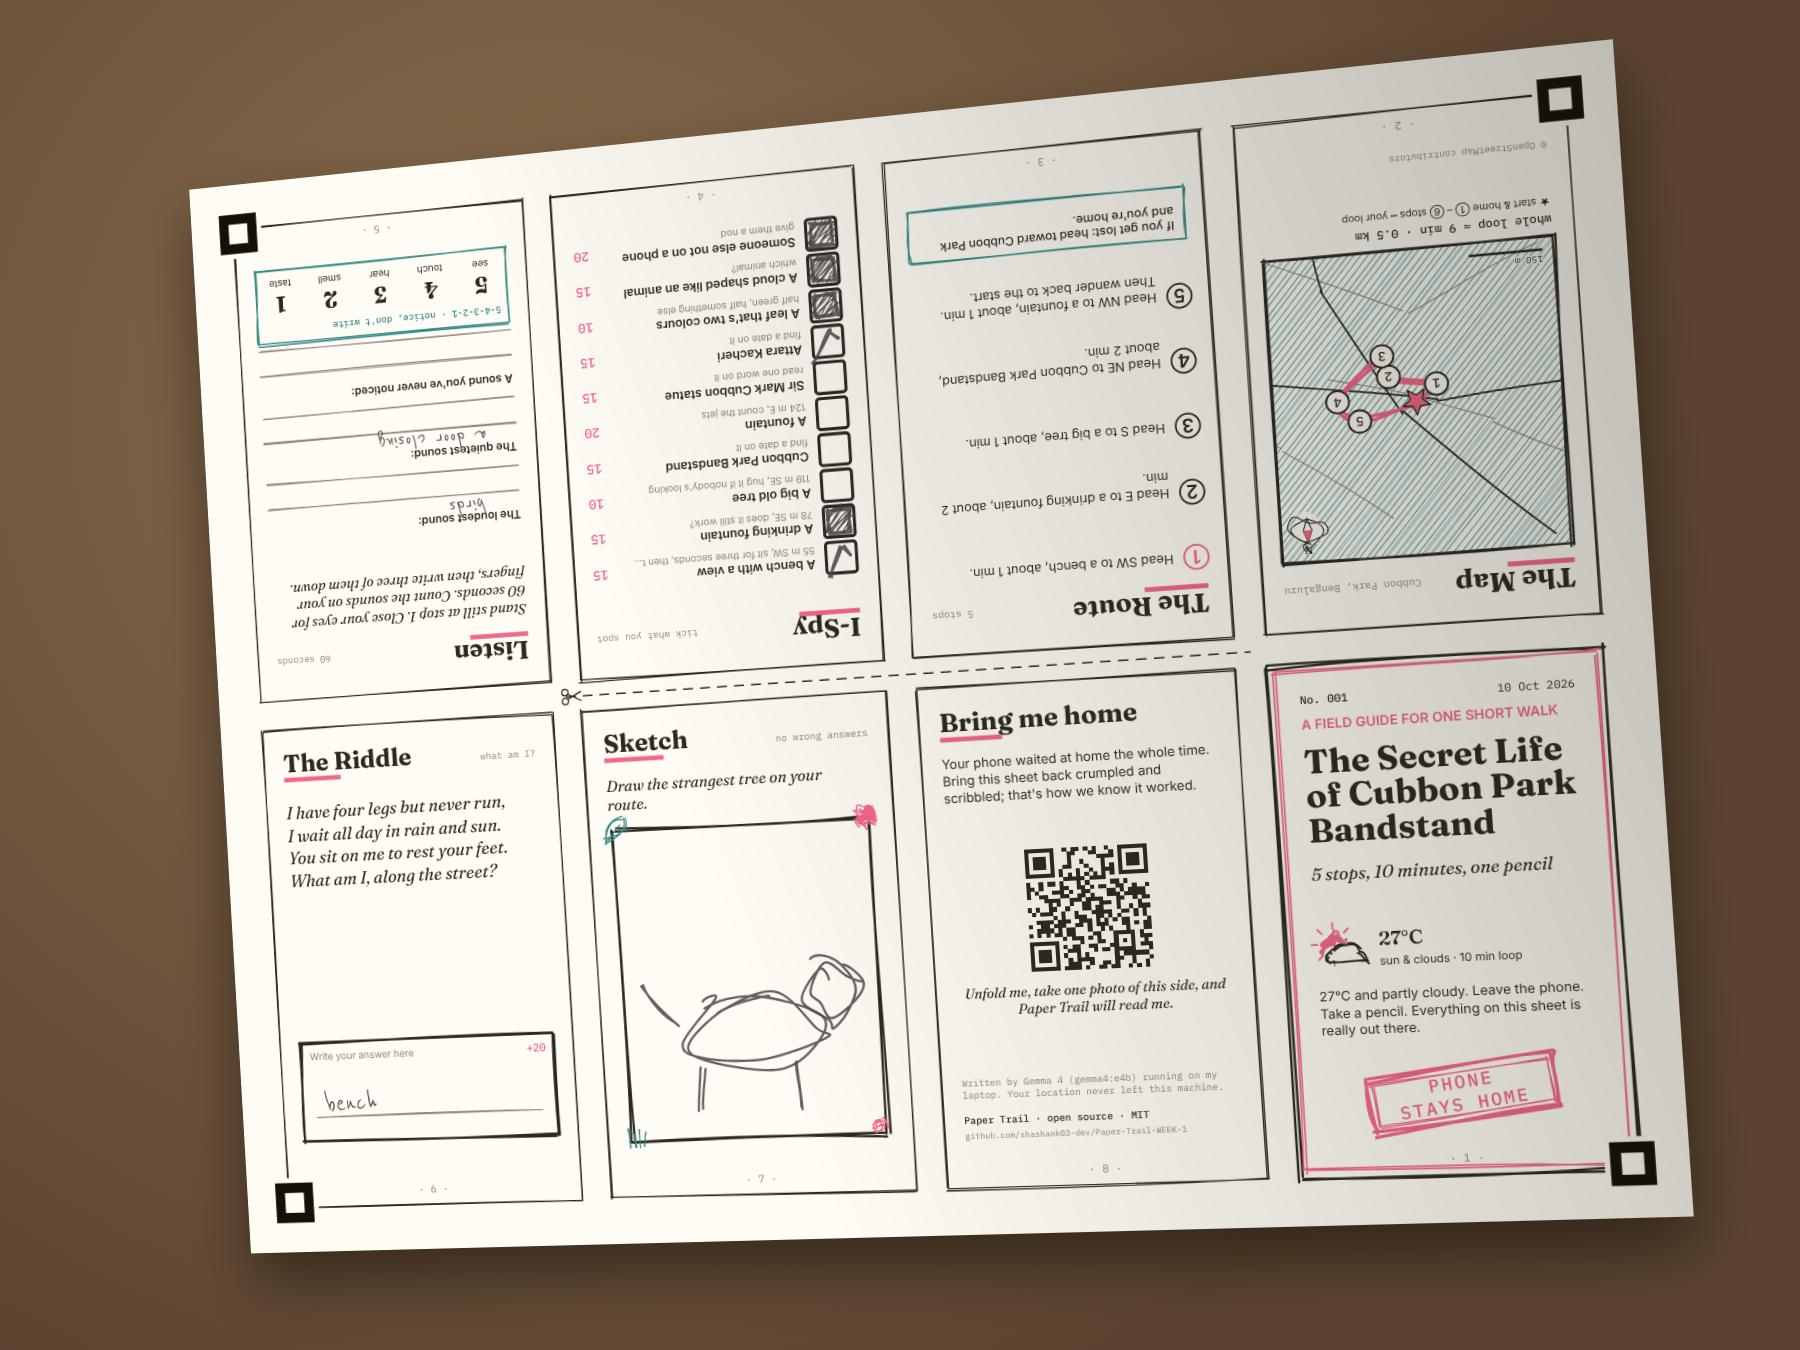
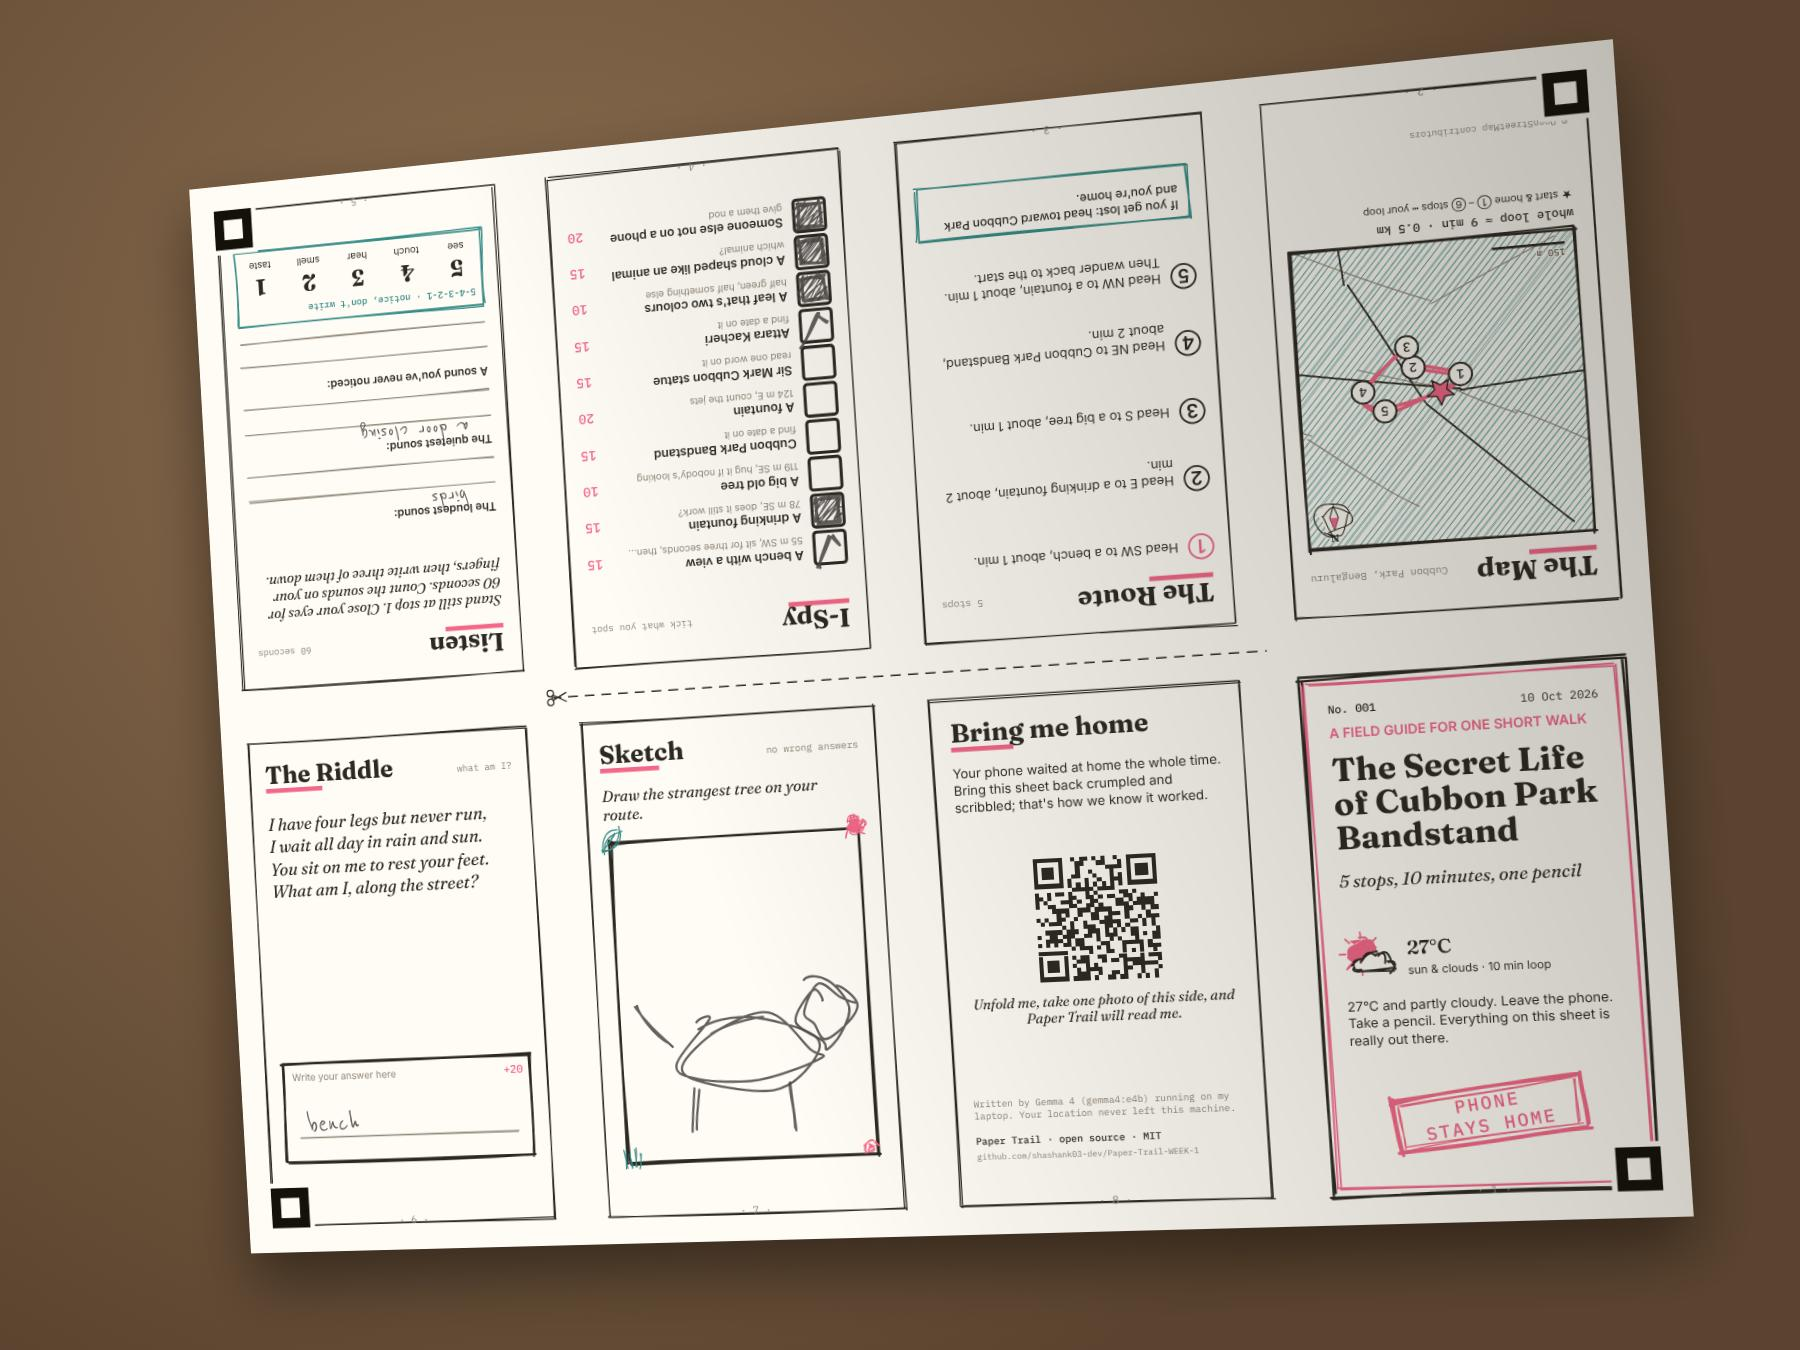
Make panels exact quarters of the sheet so folds land on panel edges

Changed region(s): [[0.0933, 0.0311, 0.9333, 0.9333]]

diff --git a/lib/zine/layout.ts b/lib/zine/layout.ts
@@ -9,14 +9,18 @@ export const PAPER_MM: Record<Paper, { w: number; h: number; label: string }> = 
   a4: { w: 297, h: 210, label: "A4" },
 };
 
-/** Print-safe margin around the sheet. */
-export const MARGIN = 6;
-/** Inner gutter per panel (frame inset). */
-export const GUTTER = 3;
+/**
+ * Panels are exact quarters of the sheet, so the physical folds (halving the
+ * paper) land exactly on panel edges. Margins live inside each panel.
+ */
+/** Distance of the corner markers from the sheet edges (inside printers' margins). */
+export const MARGIN = 5;
+/** Frame inset from every panel edge: ≥ 5 mm from the paper edge and from each fold. */
+export const GUTTER = 5.5;
 /** Content padding inside the frame. */
-export const PAD = 4;
+export const PAD = 3.5;
 /** Bottom band of every panel; its corners hold the fiducials on pages 1, 2, 5, 6. */
-export const FOOTER = 12;
+export const FOOTER = 14;
 /** Fiducial marker: solid black square with a white inner square. */
 export const FIDUCIAL = 8;
 export const FIDUCIAL_INNER = 4;
@@ -72,7 +76,7 @@ export interface SheetGeometry {
 
 export function sheetGeometry(paper: Paper): SheetGeometry {
   const { w, h } = PAPER_MM[paper];
-  const grid = { x: MARGIN, y: MARGIN, w: w - 2 * MARGIN, h: h - 2 * MARGIN };
+  const grid = { x: 0, y: 0, w, h };
   const panelW = grid.w / COLS;
   const panelH = grid.h / ROWS;
   const cells = {} as SheetGeometry["cells"];
@@ -88,10 +92,10 @@ export function sheetGeometry(paper: Paper): SheetGeometry {
   }
   const f = FIDUCIAL;
   const fiducials: SheetGeometry["fiducials"] = [
-    { corner: "tl", x: grid.x, y: grid.y },
-    { corner: "tr", x: grid.x + grid.w - f, y: grid.y },
-    { corner: "br", x: grid.x + grid.w - f, y: grid.y + grid.h - f },
-    { corner: "bl", x: grid.x, y: grid.y + grid.h - f },
+    { corner: "tl", x: MARGIN, y: MARGIN },
+    { corner: "tr", x: w - MARGIN - f, y: MARGIN },
+    { corner: "br", x: w - MARGIN - f, y: h - MARGIN - f },
+    { corner: "bl", x: MARGIN, y: h - MARGIN - f },
   ].map((d) => ({
     ...(d as { corner: "tl" | "tr" | "br" | "bl"; x: number; y: number }),
     size: f,

diff --git a/tests/layout.test.ts b/tests/layout.test.ts
@@ -6,6 +6,7 @@ import {
   sheetGeometry,
   ispyRows,
   contentBox,
+  frameBox,
   FOOTER,
 } from "@/lib/zine/layout";
 
@@ -32,15 +33,22 @@ describe("imposition (standard one-cut mini-zine)", () => {
 
 describe("sheet geometry", () => {
   it.each(["letter", "a4"] as const)(
-    "%s: 6 mm margins, 4×2 grid, cut across the middle two columns",
+    "%s: panels are exact quarters so folds land on panel edges; cut across the middle two columns",
     (paper) => {
       const g = sheetGeometry(paper);
-      expect(g.grid.x).toBe(6);
-      expect(g.grid.w).toBeCloseTo(g.w - 12);
+      expect(g.panelW).toBeCloseTo(g.w / 4);
+      expect(g.panelH).toBeCloseTo(g.h / 2);
       expect(g.panelW * 4).toBeCloseTo(g.grid.w);
       expect(g.cut.x1).toBeCloseTo(g.grid.x + g.panelW);
       expect(g.cut.x2).toBeCloseTo(g.grid.x + 3 * g.panelW);
       expect(g.cut.y1).toBeCloseTo(g.h / 2);
+      // Frames keep >= 5 mm from the paper edge and from every fold.
+      expect(frameBox(g).x).toBeGreaterThanOrEqual(5);
+      // Fiducials sit inside a printable margin.
+      for (const f of g.fiducials)
+        expect(Math.min(f.x, f.y, g.w - f.x - f.size, g.h - f.y - f.size)).toBeGreaterThanOrEqual(
+          4.9,
+        );
     },
   );
 
